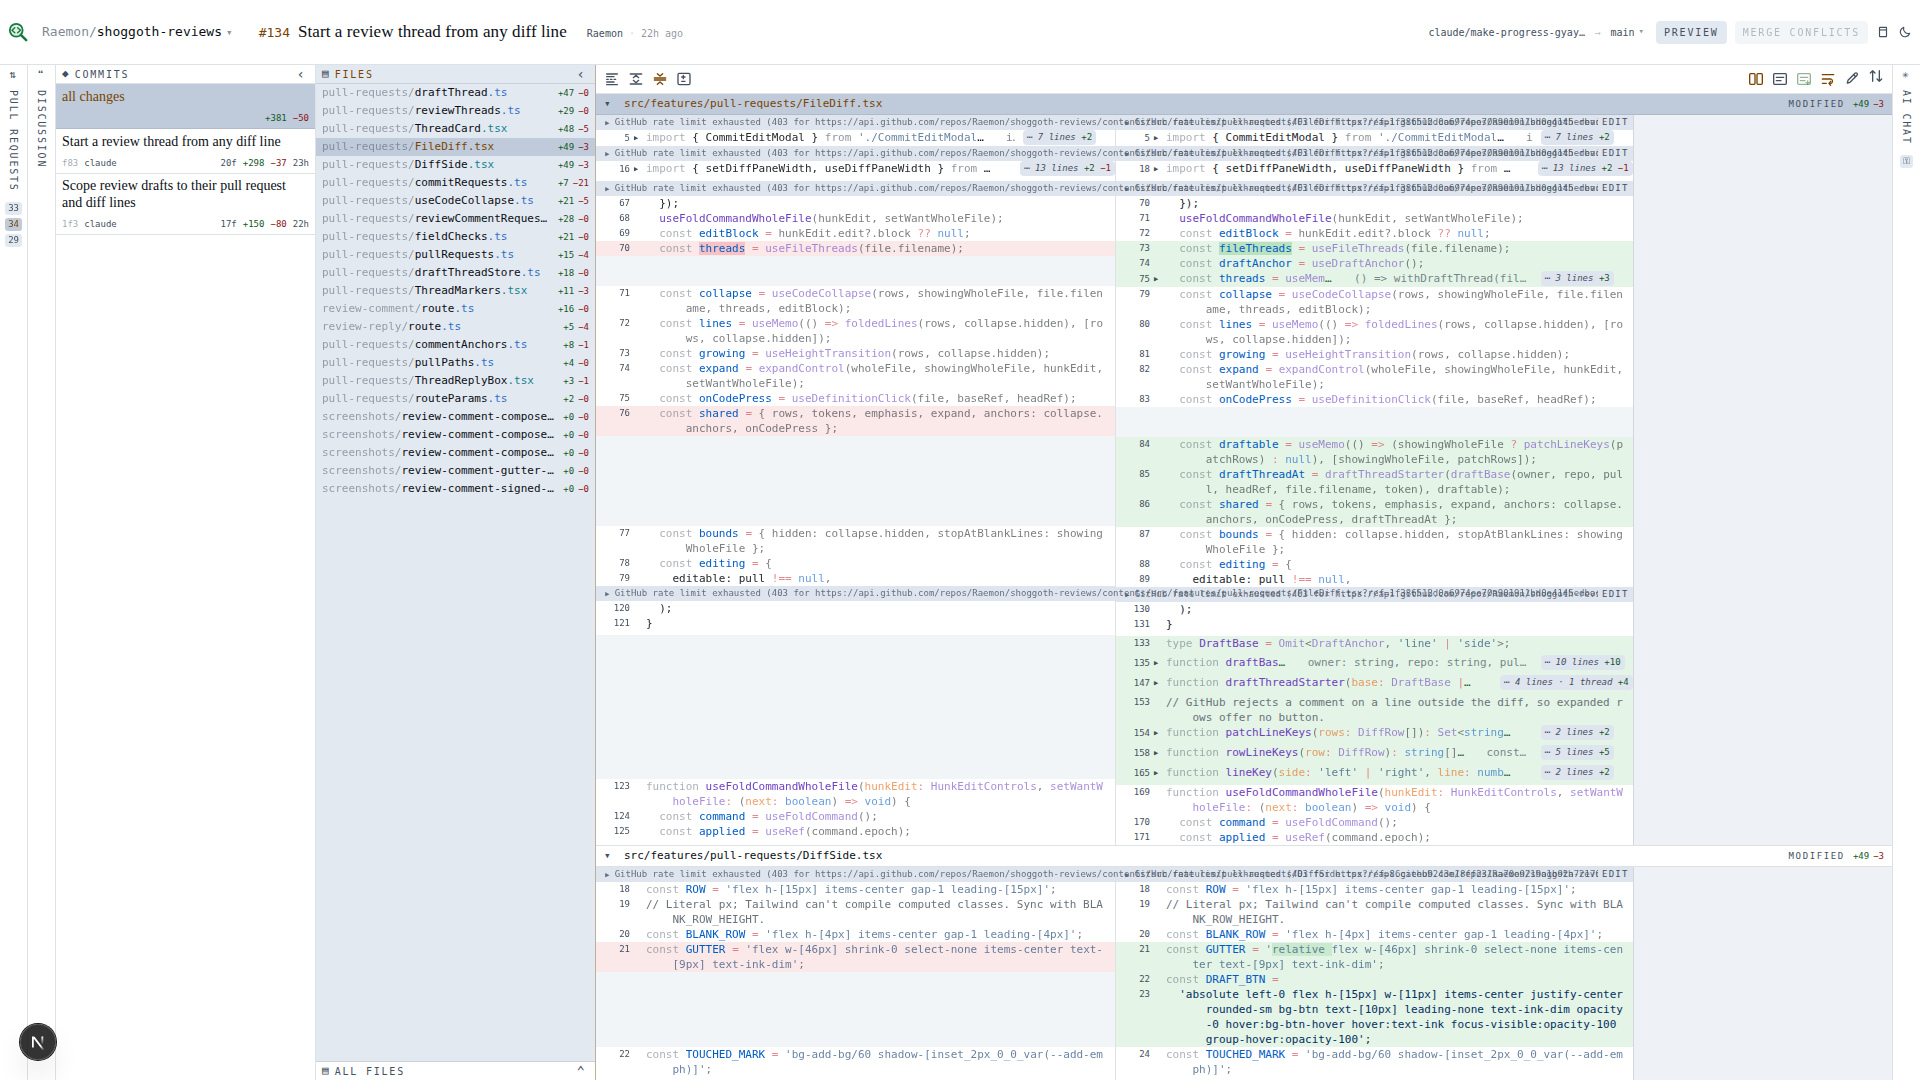
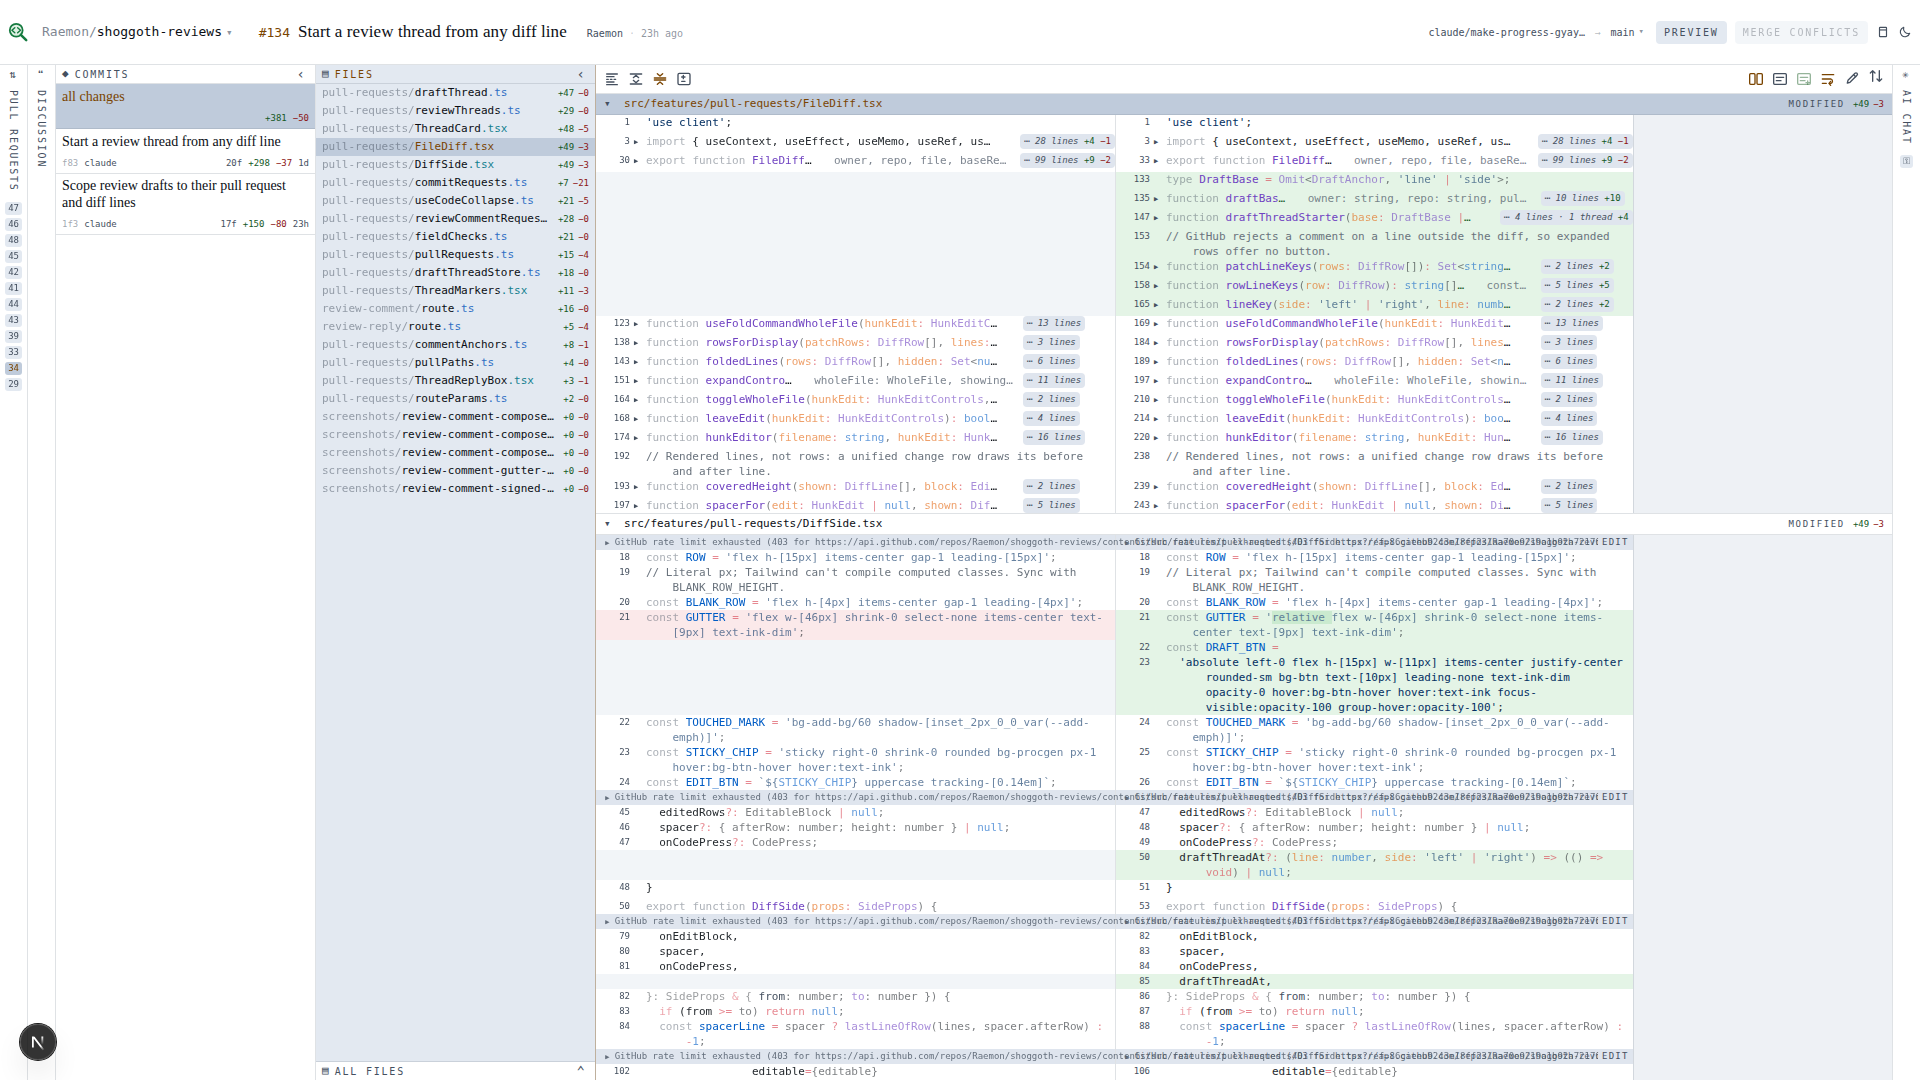
Wrap at word boundaries, and measure rows instead of predicting them
Wrapping now breaks between words, splitting a token only when it is too
long for a whole line. Line breaking is UAX #14, not a column count, so
the arithmetic that sized rows could not stay right: against Chrome it
came up a line short wherever a long token broke at punctuation, and a
short row is what pulls split panes out of line.

Rows are now sized from the laid-out cells. Each pane reports the height
of every cell it drew, and a split row takes the taller of the two, which
holds for any font, browser and wrapping mode. That drops the character
probe, the column budget and the wrap simulation.

Also stops an inline-block baseline gap under the collapse chevron from
adding a pixel to rows that are no longer a fixed height.

Claude-Session: https://claude.ai/code/session_015YvcN5y5KHeUzt98Jr48Zg

Changed region(s): [[0.3125, 0.0917, 0.875, 1.0], [0.0, 0.1833, 0.0312, 0.3667], [0.125, 0.1222, 0.1562, 0.1528]]

diff --git a/src/features/pull-requests/DiffSide.tsx b/src/features/pull-requests/DiffSide.tsx
@@ -1,6 +1,6 @@
 'use client';
 
-import { Fragment, type ReactNode } from 'react';
+import { Fragment, useLayoutEffect, useRef, type ReactNode } from 'react';
 import { hunkHasEditableLines, type EditableBlock } from './editableBlocks';
 import { codeSegments } from './codeSegments';
 import { dimAroundName } from './foldDimming';
@@ -15,7 +15,7 @@ import type { CollapseAnchor } from './useCodeCollapse';
 import type { CodePress } from './useDefinitionClick';
 import type { SideTokens } from './useDiffSideHighlight';
 import { lineHeight, type RowHeights } from './diffMetrics';
-import { hangingIndent } from './wrapHeights';
+import { hangingIndent, measureRowHeights, sameRowHeights, WRAPPED_CELL } from './rowHeights';
 import { HoverCardTrigger } from '@/features/surface-ui/HoverCard';
 import { SelectableRow } from '@/features/surface-ui/SelectableRow';
 
@@ -30,8 +30,8 @@ const EDIT_BTN = `${STICKY_CHIP} uppercase tracking-[0.14em]`;
 const FOLD_BADGE = `${STICKY_CHIP} ml-1 text-[9px] italic text-ink-dim`;
 const FOLD_PREVIEW = 'diff-code max-w-[90ch] shrink-[999] overflow-hidden text-ellipsis whitespace-pre pl-2 text-[11px] text-ink-dim/70';
 const CODE = 'diff-code whitespace-pre pr-2 text-[11px]';
-// break-all, not word wrapping: only a greedy column fill matches wrapHeights' row sizing.
-const WRAPPED_CODE = 'diff-code min-w-0 flex-1 whitespace-pre-wrap [word-break:break-all] [tab-size:8] pr-2 text-[11px]';
+// break-word, so only a word too long for a whole line is ever split.
+const WRAPPED_CODE = 'diff-code min-w-0 flex-1 whitespace-pre-wrap [overflow-wrap:break-word] [tab-size:8] pr-2 text-[11px]';
 // 150px keeps the fold badge clear of the ellipsis; 100cqw is the visible column width.
 const FOLDED_TEXT = 'flex min-w-0 max-w-[calc(100cqw-150px)] overflow-hidden';
 
@@ -55,20 +55,53 @@ export interface SideProps {
   editedRows?: EditableBlock | null;
   spacer?: { afterRow: number; height: number } | null;
   onCodePress?: CodePress;
+  wrap: boolean;
   heights: RowHeights;
+  onMeasured: (heights: RowHeights) => void;
 }
 
 export function DiffSide(props: SideProps) {
+  const pane = useRef<HTMLDivElement | null>(null);
+  useMeasuredRows(pane, props.wrap, props.onMeasured);
+  return (
+    <div ref={pane} className="min-w-0 flex-1">
+      <PaneLines {...props} />
+    </div>
+  );
+}
+
+function PaneLines(props: SideProps) {
   const { lines, editedRows, editor } = props;
   if (!editedRows) return <DiffLines {...props} from={0} to={lines.length} />;
   const edited = editedLineRange(lines, editedRows);
   return (
-    <div className="min-w-0 flex-1">
+    <>
       <DiffLines {...props} from={0} to={edited.first} />
       {editor}
       <DiffLines {...props} from={edited.last + 1} to={lines.length} />
-    </div>
+    </>
   );
+}
+
+/** No dep array: every render can rewrap, and a resize does so without one. */
+function useMeasuredRows(pane: React.RefObject<HTMLElement | null>, wrapping: boolean, onMeasured: (heights: RowHeights) => void) {
+  const held = useRef<RowHeights>(null);
+  const report = (next: RowHeights) => {
+    if (sameRowHeights(held.current, next)) return;
+    held.current = next;
+    onMeasured(next);
+  };
+  const latest = useRef(report);
+  latest.current = report;
+  useLayoutEffect(() => {
+    const element = pane.current;
+    if (!element || !wrapping) return latest.current(null);
+    const measure = () => latest.current(measureRowHeights(element));
+    measure();
+    const observer = new ResizeObserver(measure);
+    observer.observe(element);
+    return () => observer.disconnect();
+  });
 }
 
 function editedLineRange(lines: DiffLine[], block: EditableBlock): { first: number; last: number } {
@@ -90,6 +123,7 @@ function DiffLines({
   onEditBlock,
   spacer,
   onCodePress,
+  wrap,
   heights,
 }: SideProps & { from: number; to: number }) {
   const dim = foldsCollapsed(useFoldCommand().mode);
@@ -97,8 +131,8 @@ function DiffLines({
   const spacerLine = spacer ? lastLineOfRow(lines, spacer.afterRow) : -1;
   const rowsWithRightLine = rowsShownOnRight(lines);
   return (
-    <div className={`@container min-w-0 flex-1 ${heights ? '' : 'overflow-x-auto'}`}>
-      <div className={heights ? 'w-full' : 'w-max min-w-full'}>
+    <div className={`@container min-w-0 flex-1 ${wrap ? '' : 'overflow-x-auto'}`}>
+      <div className={wrap ? 'w-full' : 'w-max min-w-full'}>
         {lines.slice(from, to).map((line, offset) => {
           const index = from + offset;
           const anchor = anchorOf(line, anchors, rowsWithRightLine);
@@ -114,6 +148,7 @@ function DiffLines({
                 anchor={anchor}
                 collapsed={anchors.get(line.row)?.collapsed ?? false}
                 dim={dim}
+                wrap={wrap}
                 height={heights ? lineHeight(line, heights) : null}
                 editable={editable}
                 onEdit={editStarter(rows, line.row, onEditBlock)}
@@ -167,6 +202,7 @@ function DiffLineView({
   collapsed,
   preview,
   dim,
+  wrap,
   height,
   editable,
   onEdit,
@@ -181,6 +217,7 @@ function DiffLineView({
   anchor: CollapseAnchor | null;
   collapsed: boolean;
   dim: boolean;
+  wrap: boolean;
   height: number | null;
   editable?: boolean;
   onEdit?: () => void;
@@ -190,21 +227,23 @@ function DiffLineView({
   if (line.kind === 'hunk') {
     return <HunkLine label={labels ? line.label : ''} expand={expand} onEdit={editable && side === 'right' ? onEdit : undefined} />;
   }
-  const wrapping = height !== null && !line.blank;
+  const wrapping = wrap && !line.blank;
   const row = line.blank ? BLANK_ROW : wrapping ? WRAPPED_ROW : ROW;
-  if (!cell) return <div className={`${row} bg-procgen/40`} style={wrapping ? { minHeight: height } : undefined} />;
+  const sized = wrapping && height !== null ? { minHeight: height } : undefined;
+  if (!cell) return <div className={`${row} bg-procgen/40`} style={sized} />;
   const changed = line.kind === 'change';
   const openable = Boolean(editable && side === 'right');
   const segments = codeSegments(cell.text, lineTokens, changed ? ranges : null);
   return (
     <div
       className={`group ${row} ${lineTone(side, changed, line.touched)} ${openable ? 'cursor-text' : ''}`}
-      style={wrapping ? { minHeight: height } : undefined}
+      style={sized}
       onClick={openable && onEdit ? (event) => opensEditor(event.detail) && onEdit() : undefined}
     >
       <GutterCell line={line.blank ? null : cell.line} anchor={anchor} />
       <span className={collapsed ? FOLDED_TEXT : 'contents'}>
         <span
+          {...{ [WRAPPED_CELL]: `${side}:${line.row}` }}
           className={codeClass(collapsed, wrapping)}
           style={wrapping && !collapsed ? hangingIndentStyle(cell.text) : undefined}
           onClick={onCodePress ? (event) => onCodePress(line, event) : undefined}
@@ -266,7 +305,8 @@ function GutterCell({ line, anchor }: { line: number | null; anchor: CollapseAnc
   return (
     <span className={GUTTER}>
       <span className="min-w-0 flex-1 text-right">{line}</span>
-      <span className="w-3 shrink-0 text-center">{anchor && <CollapseChevron anchor={anchor} />}</span>
+      {/* flex, not inline: an inline-block button leaves a baseline gap that unsettles a wrapped row. */}
+      <span className="flex w-3 shrink-0 justify-center">{anchor && <CollapseChevron anchor={anchor} />}</span>
     </span>
   );
 }

diff --git a/src/features/pull-requests/FileDiff.tsx b/src/features/pull-requests/FileDiff.tsx
@@ -1,6 +1,6 @@
 'use client';
 
-import { useContext, useEffect, useMemo, useRef, useState, type RefObject } from 'react';
+import { useContext, useEffect, useMemo, useRef, useState } from 'react';
 import { CodeBlockEditor } from './CodeBlockEditor';
 import { CommitEditModal } from './CommitEditModal';
 import { DiffSide, type HunkControl } from './DiffSide';
@@ -9,8 +9,7 @@ import { columnLines, resultLines, unifiedLines, visibleLines, type DiffLine } f
 import { langForPath } from './diffHighlight';
 import { linesHeight, ROW_HEIGHT, SAVE_BAR, type RowHeights } from './diffMetrics';
 import { useDiffWrap } from './diffWrapStore';
-import { useCodeCharWidth, useWrapColumns, wrappedRowHeights, type WrapColumns } from './wrapHeights';
-import { useElementWidth } from './useElementWidth';
+import { evenedRowHeights } from './rowHeights';
 import { EditTarget } from './editTarget';
 import { type EditableBlock } from './editableBlocks';
 import { expandDiff } from './expandDiff';
@@ -21,7 +20,7 @@ import { DragHandle, useDragWidth } from './ResizableColumn';
 import { rowOf } from './commentAnchors';
 import { useFileThreads } from './reviewThreadStore';
 import { splitDiff, type DiffRow } from './splitDiff';
-import { useCodeCollapse, type CollapseAnchor } from './useCodeCollapse';
+import { useCodeCollapse } from './useCodeCollapse';
 import { useDefinitionClick } from './useDefinitionClick';
 import { useDiffTokens, useIntralineEmphasis } from './useDiffSideHighlight';
 import { useHeightTransition } from './useHeightTransition';
@@ -51,7 +50,8 @@ export function FileDiff({
   const singleColumn = layout !== 'split' || entireFile;
   const removedSize = { width: useDiffPaneWidth(), open: true };
   const startDrag = useDragWidth(removedSize, setDiffPaneWidth);
-  const diffArea = useRef<HTMLDivElement | null>(null);
+  const wrap = useDiffWrap();
+  const measured = useMeasuredSides();
   const [wantWholeFile, setWantWholeFile] = useState(wholeFileWanted);
   const [threadOverflow, setThreadOverflow] = useState(0);
   const wholeFile = useWholeFile(owner, repo, file, baseRef, headRef, wantWholeFile);
@@ -77,15 +77,14 @@ export function FileDiff({
   const collapse = useCodeCollapse(rows, showingWholeFile, file.filename, threads, editBlock);
   const commentedRows = useMemo(() => new Set(threads.map((thread) => rowOf(thread, rows))), [threads, rows]);
   const lines = useMemo(() => foldedLines(rows, collapse.hidden, commentedRows), [rows, collapse.hidden, commentedRows]);
-  const columns = useDiffWrapColumns(diffArea, singleColumn, removedSize.width);
-  const rowHeights = useWrappedRowHeights(rows, columns, collapse.anchors, !singleColumn);
+  const rowHeights = singleColumn ? measured.right : evenedRowHeights(measured.left, measured.right);
   const resultView = layout === 'result' && !entireFile && anyLineSurvives(rows);
   const oneColumnLines = resultView ? lines.result : lines.unified;
   const mainLines = singleColumn ? oneColumnLines : lines.right;
   const growing = useHeightTransition(rows, collapse.hidden, rowHeights);
   const expand = expandControl(wholeFile, showingWholeFile, hunkEdit, setWantWholeFile);
   const onCodePress = useDefinitionClick(file, baseRef, headRef);
-  const shared = { rows, tokens, emphasis, expand, anchors: collapse.anchors, onCodePress, heights: rowHeights };
+  const shared = { rows, tokens, emphasis, expand, anchors: collapse.anchors, onCodePress, wrap, heights: rowHeights };
   const bounds = { hidden: collapse.hidden, stopAtBlankLines: showingWholeFile };
   const editing = {
     editable: pull !== null,
@@ -95,17 +94,23 @@ export function FileDiff({
   };
   return (
     <div ref={growing} className="flex" style={{ paddingBottom: threadOverflow }}>
-      <div ref={diffArea} className="min-w-0 flex-1" style={{ flexBasis: singleColumn ? 0 : removedSize.width * 2 }}>
+      <div className="min-w-0 flex-1" style={{ flexBasis: singleColumn ? 0 : removedSize.width * 2 }}>
         {singleColumn ? (
-          <DiffSide {...shared} lines={mainLines} labels {...editing} />
+          <DiffSide {...shared} lines={mainLines} labels onMeasured={measured.onRight} {...editing} />
         ) : (
           <div className="flex">
             <section className="relative flex shrink-0 flex-col border-r border-panel-edge" style={{ width: removedSize.width }}>
-              <DiffSide {...shared} lines={lines.left} labels spacer={spacerFor(hunkEdit.edit, lines.right, rowHeights)} />
+              <DiffSide
+                {...shared}
+                lines={lines.left}
+                labels
+                onMeasured={measured.onLeft}
+                spacer={spacerFor(hunkEdit.edit, lines.right, rowHeights)}
+              />
               <DragHandle onPointerDown={startDrag} />
             </section>
             <section className="flex min-w-0 flex-1 flex-col">
-              <DiffSide {...shared} lines={lines.right} labels={false} {...editing} />
+              <DiffSide {...shared} lines={lines.right} labels={false} onMeasured={measured.onRight} {...editing} />
             </section>
           </div>
         )}
@@ -133,29 +138,18 @@ export function FileDiff({
   );
 }
 
-function useDiffWrapColumns(
-  diffArea: RefObject<HTMLDivElement | null>,
-  singleColumn: boolean,
-  leftWidth: number,
-): WrapColumns | null {
-  const areaWidth = useElementWidth(diffArea);
-  const wrapping = useDiffWrap();
-  return useWrapColumns(wrapping ? areaWidth : 0, singleColumn ? 0 : leftWidth, useCodeCharWidth());
+interface MeasuredSides {
+  left: RowHeights;
+  right: RowHeights;
+  onLeft: (heights: RowHeights) => void;
+  onRight: (heights: RowHeights) => void;
 }
 
-// Collapsed rows draw one truncated line, so their full text must not size them.
-function useWrappedRowHeights(
-  rows: DiffRow[],
-  columns: WrapColumns | null,
-  anchors: Map<number, CollapseAnchor>,
-  splitPanes: boolean,
-): RowHeights {
-  const collapsed = useMemo(() => collapsedRows(anchors), [anchors]);
-  return useMemo(() => wrappedRowHeights(rows, columns, collapsed, splitPanes), [rows, columns, collapsed, splitPanes]);
-}
-
-function collapsedRows(anchors: Map<number, CollapseAnchor>): Set<number> {
-  return new Set([...anchors].filter(([, anchor]) => anchor.collapsed).map(([row]) => row));
+// A single-column layout reports as the right side, the one every layout draws.
+function useMeasuredSides(): MeasuredSides {
+  const [left, onLeft] = useState<RowHeights>(null);
+  const [right, onRight] = useState<RowHeights>(null);
+  return { left, right, onLeft, onRight };
 }
 
 function useFoldCommandWholeFile(hunkEdit: HunkEditControls, setWantWholeFile: (next: boolean) => void) {

diff --git a/src/features/pull-requests/rowHeights.ts b/src/features/pull-requests/rowHeights.ts
@@ -1,0 +1,60 @@
+'use client';
+
+import { ROW_HEIGHT, type RowHeight, type RowHeights } from './diffMetrics';
+
+export const WRAPPED_CELL = 'data-wrapped-cell';
+
+const HANGING_STEP = 4;
+const MAX_HANGING_INDENT = 40;
+const TAB_SIZE = 8;
+
+/** Continuations start here: the line's own indent, plus a step that marks them as continuations. */
+export function hangingIndent(text: string): number {
+  return Math.min(MAX_HANGING_INDENT, leadingColumns(text) + HANGING_STEP);
+}
+
+function leadingColumns(text: string): number {
+  let columns = 0;
+  for (const char of text.match(/^[ \t]*/u)?.[0] ?? '') columns += char === '\t' ? TAB_SIZE - (columns % TAB_SIZE) : 1;
+  return columns;
+}
+
+/** Read from the laid-out cells: line breaking is the browser's to know, not ours to predict. */
+export function measureRowHeights(container: HTMLElement): RowHeights {
+  const heights = new Map<number, RowHeight>();
+  for (const cell of container.querySelectorAll<HTMLElement>(`[${WRAPPED_CELL}]`)) {
+    const { row, side } = cellKey(cell);
+    heights.set(row, { ...rowHeightAt(heights, row), [side]: cell.offsetHeight });
+  }
+  return heights;
+}
+
+function cellKey(cell: HTMLElement): { row: number; side: 'left' | 'right' } {
+  const [side, row] = (cell.getAttribute(WRAPPED_CELL) ?? '').split(':');
+  return { row: Number(row), side: side === 'left' ? 'left' : 'right' };
+}
+
+function rowHeightAt(heights: RowHeights, row: number): RowHeight {
+  return heights?.get(row) ?? { left: ROW_HEIGHT, right: ROW_HEIGHT };
+}
+
+/** Split panes only line up if a row is as tall as the taller of the two cells across from it. */
+export function evenedRowHeights(left: RowHeights, right: RowHeights): RowHeights {
+  if (!left || !right) return null;
+  const heights = new Map<number, RowHeight>();
+  for (const row of new Set([...left.keys(), ...right.keys()])) {
+    const tallest = Math.max(rowHeightAt(left, row).left, rowHeightAt(right, row).right);
+    heights.set(row, { left: tallest, right: tallest });
+  }
+  return heights;
+}
+
+export function sameRowHeights(held: RowHeights, next: RowHeights): boolean {
+  if (!held || !next) return held === next;
+  if (held.size !== next.size) return false;
+  return [...held].every(([row, { left, right }]) => sameHeight(next.get(row), left, right));
+}
+
+function sameHeight(height: RowHeight | undefined, left: number, right: number): boolean {
+  return height?.left === left && height.right === right;
+}
